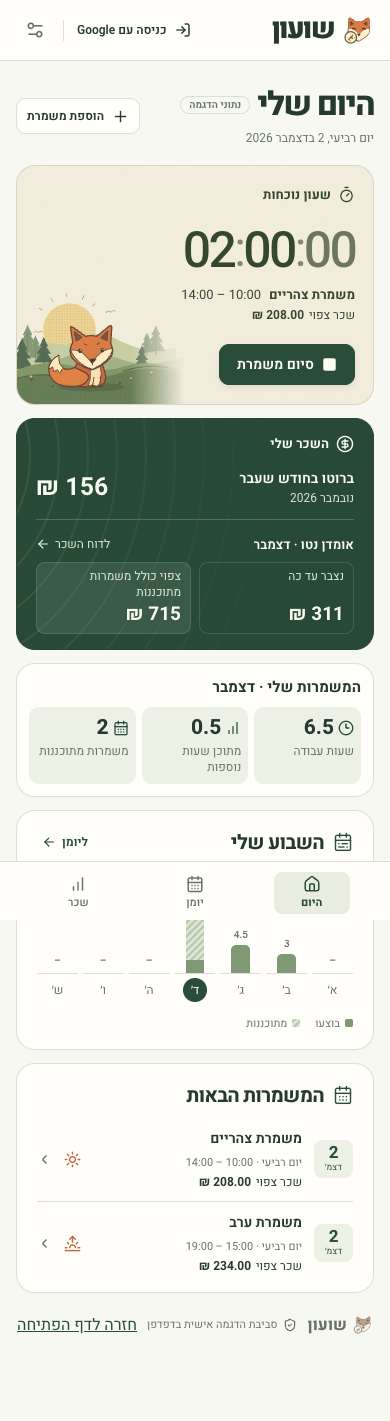
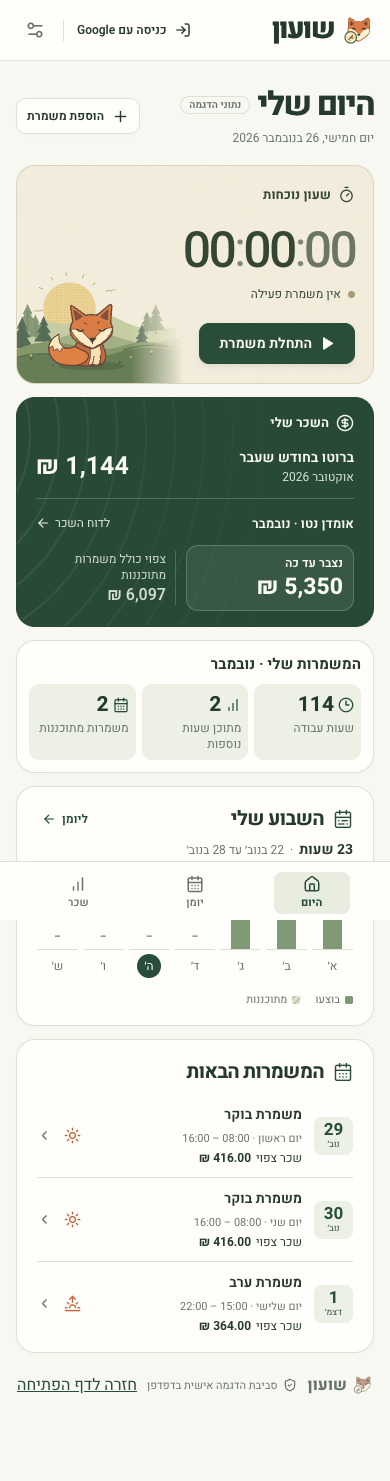
Emphasize earned net pay on dashboard

diff --git a/src/style.css b/src/style.css
@@ -649,43 +649,53 @@ button:not(:disabled):active {
   margin: 0;
 }
 .income-estimates {
-  grid-template-columns: repeat(2, minmax(0, 1fr));
-  align-items: stretch;
-  gap: 8px;
-  margin-top: 2px;
+  grid-template-columns: minmax(0, 1.2fr) minmax(0, 1fr);
+  align-items: center;
+  gap: clamp(10px, 2vw, 18px);
+  margin-top: 6px;
 }
-.income-estimates > div {
+.income-earned,
+.income-forecast {
   display: grid;
-  align-content: space-between;
-  gap: 2px;
-  padding: 6px 9px;
-  border: 1px solid #d5e4d426;
-  border-radius: 9px;
+  gap: 4px;
+  min-width: 0;
 }
-.income-estimates > div:last-child {
-  background: #d5e4d41a;
+.income-earned {
+  padding: 9px 10px;
+  border: 1px solid #d5e4d43d;
+  border-radius: 12px;
+  background: #d5e4d418;
+}
+.income-forecast {
+  border-inline-start: 1px solid #d5e4d438;
+  padding-inline-start: clamp(9px, 2vw, 15px);
 }
 :root[data-theme='dark'] .income-card .overline,
-:root[data-theme='dark'] .income-estimates > div:first-child dd {
+:root[data-theme='dark'] .income-earned dd {
   color: var(--green);
-}
-:root[data-theme='dark'] .income-estimates > div:last-child {
-  background: var(--lavender-tint);
-  border-color: color-mix(in srgb, var(--lavender) 24%, var(--card));
-}
-:root[data-theme='dark'] .income-estimates > div:last-child dd {
-  color: var(--lavender);
 }
 .income-estimates dt {
   font-size: 12px;
-  line-height: 1.3;
-  color: #e1ebda;
+  line-height: 1.35;
+}
+.income-earned dt {
+  font-weight: 650;
 }
 .income-estimates dd {
   margin: 0;
-  font-size: 19px;
-  font-weight: 700;
-  line-height: 1.3;
+  line-height: 1.1;
+  overflow-wrap: anywhere;
+}
+.income-earned dd {
+  font-size: clamp(23px, 5.8vw, 34px);
+  font-weight: 750;
+}
+.income-forecast {
+  color: #d2dfd1;
+}
+.income-forecast dd {
+  font-size: 16px;
+  font-weight: 600;
 }
 .summary-strip {
   background: var(--card);

diff --git a/src/components/Dashboard.tsx b/src/components/Dashboard.tsx
@@ -220,13 +220,13 @@ export function Dashboard(p: Props) {
               </button>
             </div>
             <dl className="income-estimates">
-              <div>
+              <div className="income-earned">
                 <dt>נצבר עד כה</dt>
-                <dd>{p.currentNet === null ? '—' : formatMoney(p.currentNet)}</dd>
+                <dd><bdi>{p.currentNet === null ? '—' : formatMoney(p.currentNet)}</bdi></dd>
               </div>
-              <div>
+              <div className="income-forecast">
                 <dt>צפוי כולל משמרות מתוכננות</dt>
-                <dd>{p.forecastNet === null ? '—' : formatMoney(p.forecastNet)}</dd>
+                <dd><bdi>{p.forecastNet === null ? '—' : formatMoney(p.forecastNet)}</bdi></dd>
               </div>
             </dl>
           </div>

diff --git a/README.md b/README.md
@@ -16,7 +16,7 @@
 
 | מסך | מה עושים בו |
 | --- | --- |
-| **היום שלי** | מתחילים ומסיימים משמרת, רושמים הפסקות ורואים גרף שעות שבועי. לכל משמרת מתוכננת מוצג השכר הצפוי. לצד השעון מופיעים הברוטו של החודש הקודם, אומדן הנטו שנצבר החודש והתחזית לסופו. |
+| **היום שלי** | מתחילים ומסיימים משמרת, רושמים הפסקות ורואים גרף שעות שבועי. לכל משמרת מתוכננת מוצג השכר הצפוי. לצד השעון מופיעים הברוטו של החודש הקודם, אומדן הנטו שנצבר החודש, שמוצג בהבלטה, והתחזית לסופו. |
 | **יומן המשמרות** | בודקים מה עבדתם ומה מתוכנן, מזינים שעות בדיעבד ומחילים אותן שעות על כמה ימים. בכל שורה מופיע השכר למשמרת כולה או השכר הצפוי למשמרת מתוכננת. משמרת שחוצה חצות מופיעה ביומן ביום שבו התחילה, עם כל שעות העבודה והשכר שלה. בעריכת משמרת קיימת אפשר למחוק אותה אחרי אישור מפורש. |
 | **השכר שלי** | בוחרים חודש ומשווים בין מה שנצבר בפועל לבין התחזית הכוללת משמרות מתוכננות. הדוח מפרט ברוטו, נטו משוער, ניכויים ושעות נוספות. אפשר להזין נתוני תלוש לחודש שנבחר, כולל חודשים קודמים. |
 | **הגדרות** | מעדכנים את שאלון השכר, נקודות זיכוי, הגדרות פנסיה, תעריפים לפי תאריך, ימי מנוחה וחגים ותבניות משמרת. לחיצה על תבנית פותחת עריכה של השם ושעות המשמרת בחלון קצר. אפשר לבחור מראה בהיר, כהה, מרווה או התאמה למכשיר. |
